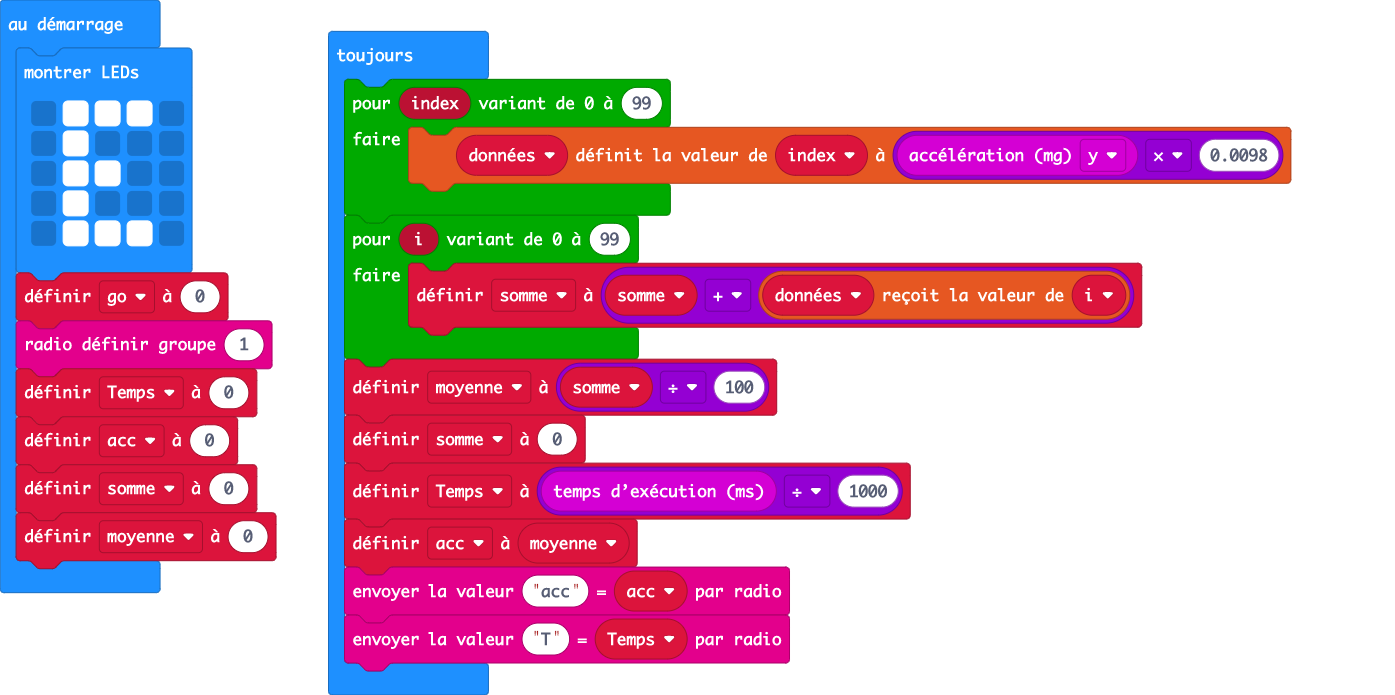
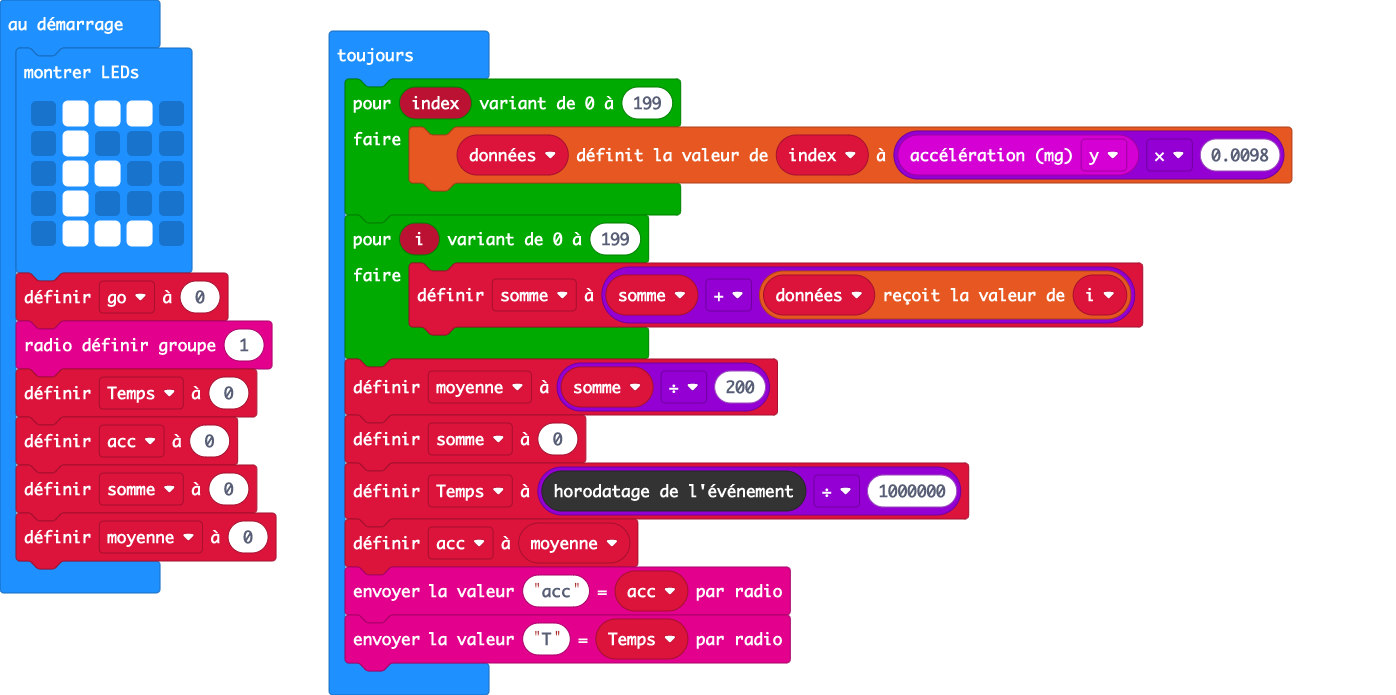
Mise à jour pxt.json, main.blocks, main.ts

diff --git a/main.ts b/main.ts
@@ -13,15 +13,15 @@ let somme = 0
 let moyenne = 0
 basic.forever(function () {
     let données: number[] = []
-    for (let index = 0; index <= 99; index++) {
+    for (let index = 0; index <= 199; index++) {
         données[index] = input.acceleration(Dimension.Y) * 0.0098
     }
-    for (let i = 0; i <= 99; i++) {
+    for (let i = 0; i <= 199; i++) {
         somme = somme + données[i]
     }
-    moyenne = somme / 100
+    moyenne = somme / 200
     somme = 0
-    Temps = input.runningTime() / 1000
+    Temps = control.eventTimestamp() / 1000000
     acc = moyenne
     radio.sendValue("acc", acc)
     radio.sendValue("T", Temps)
